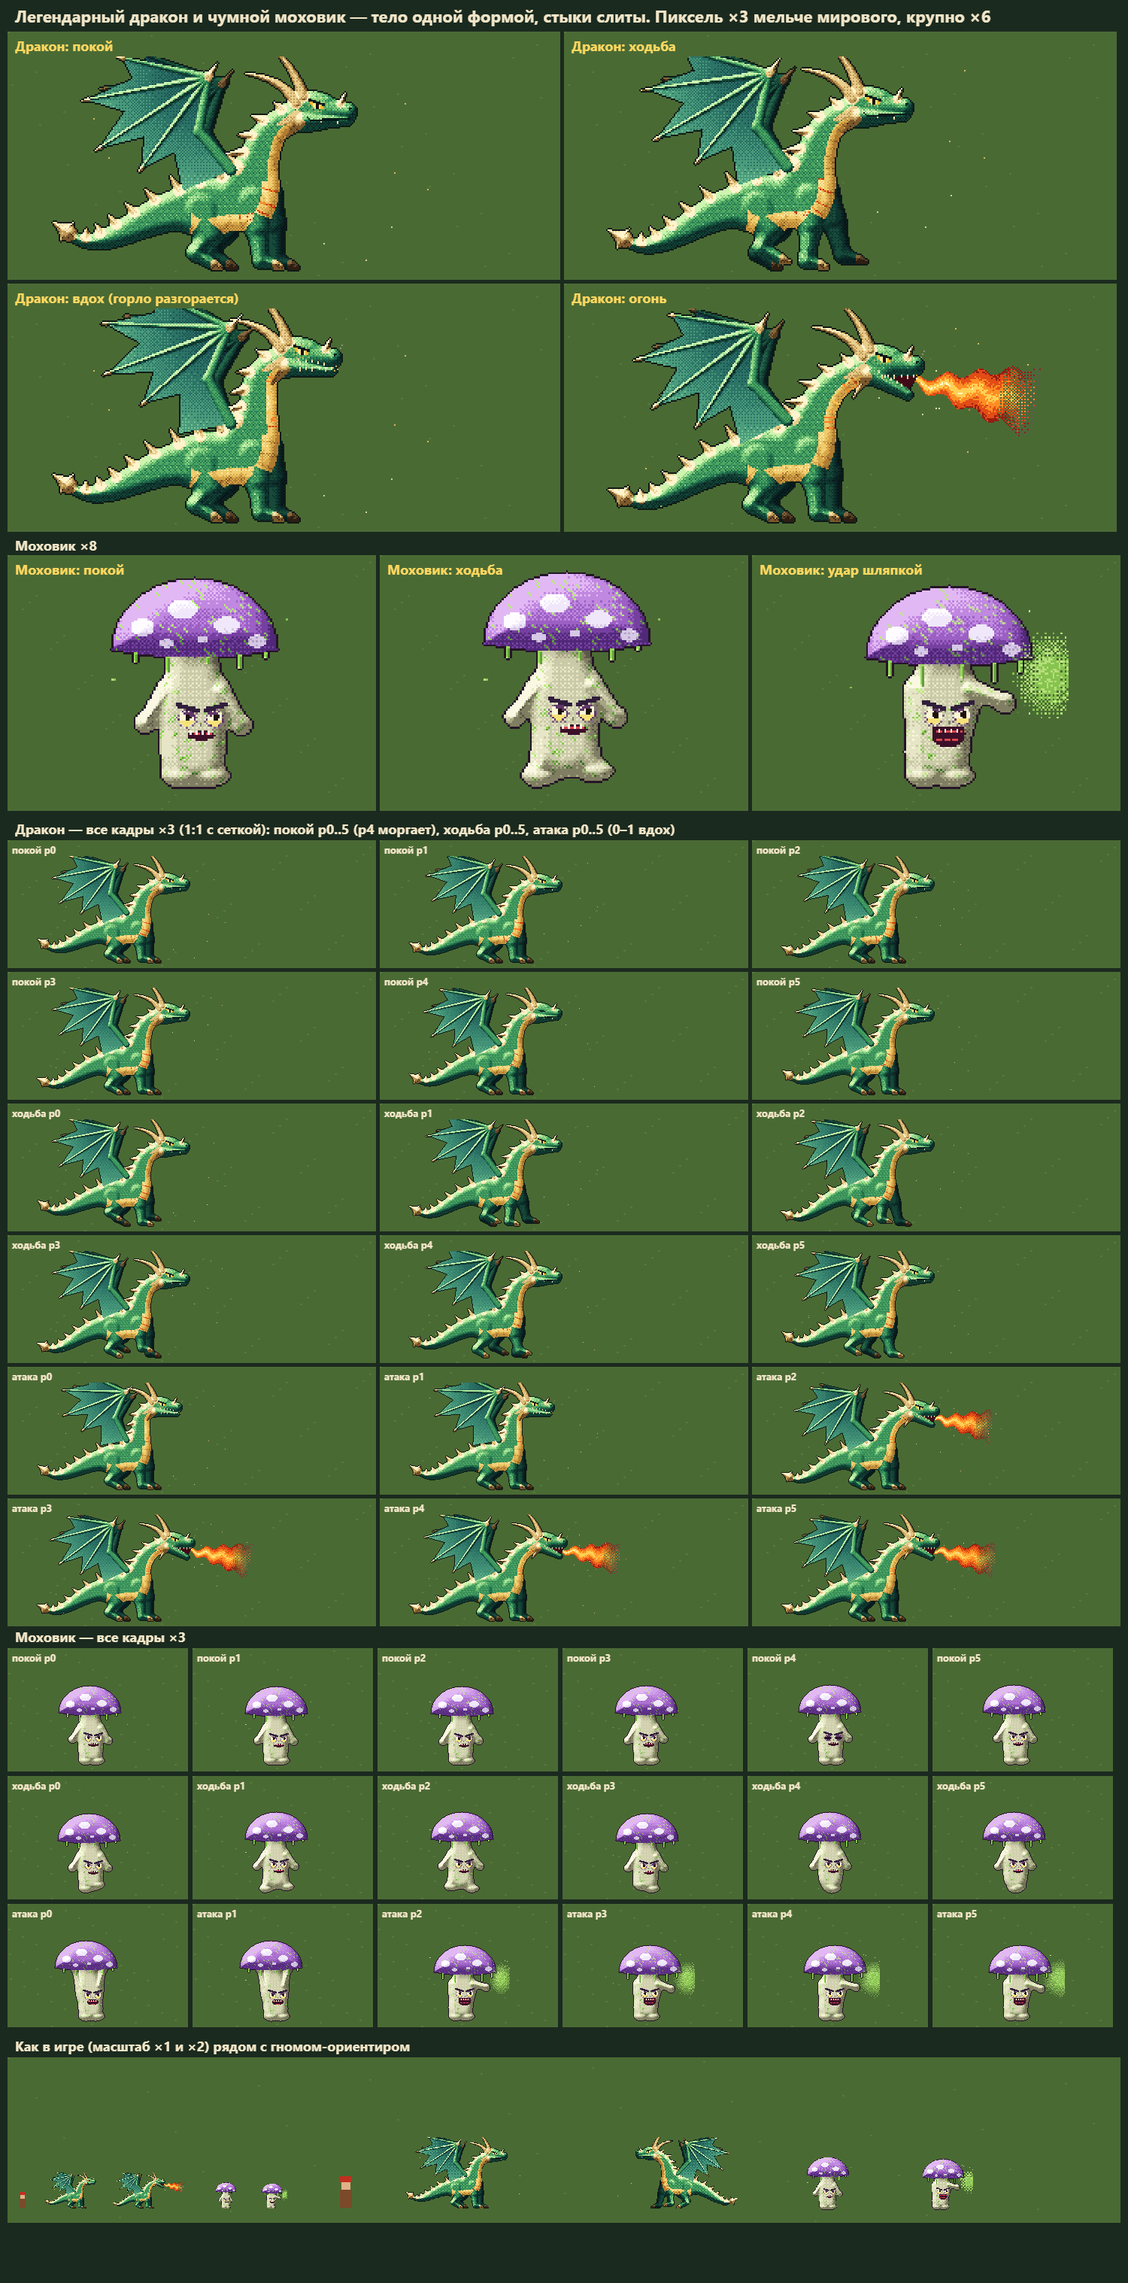
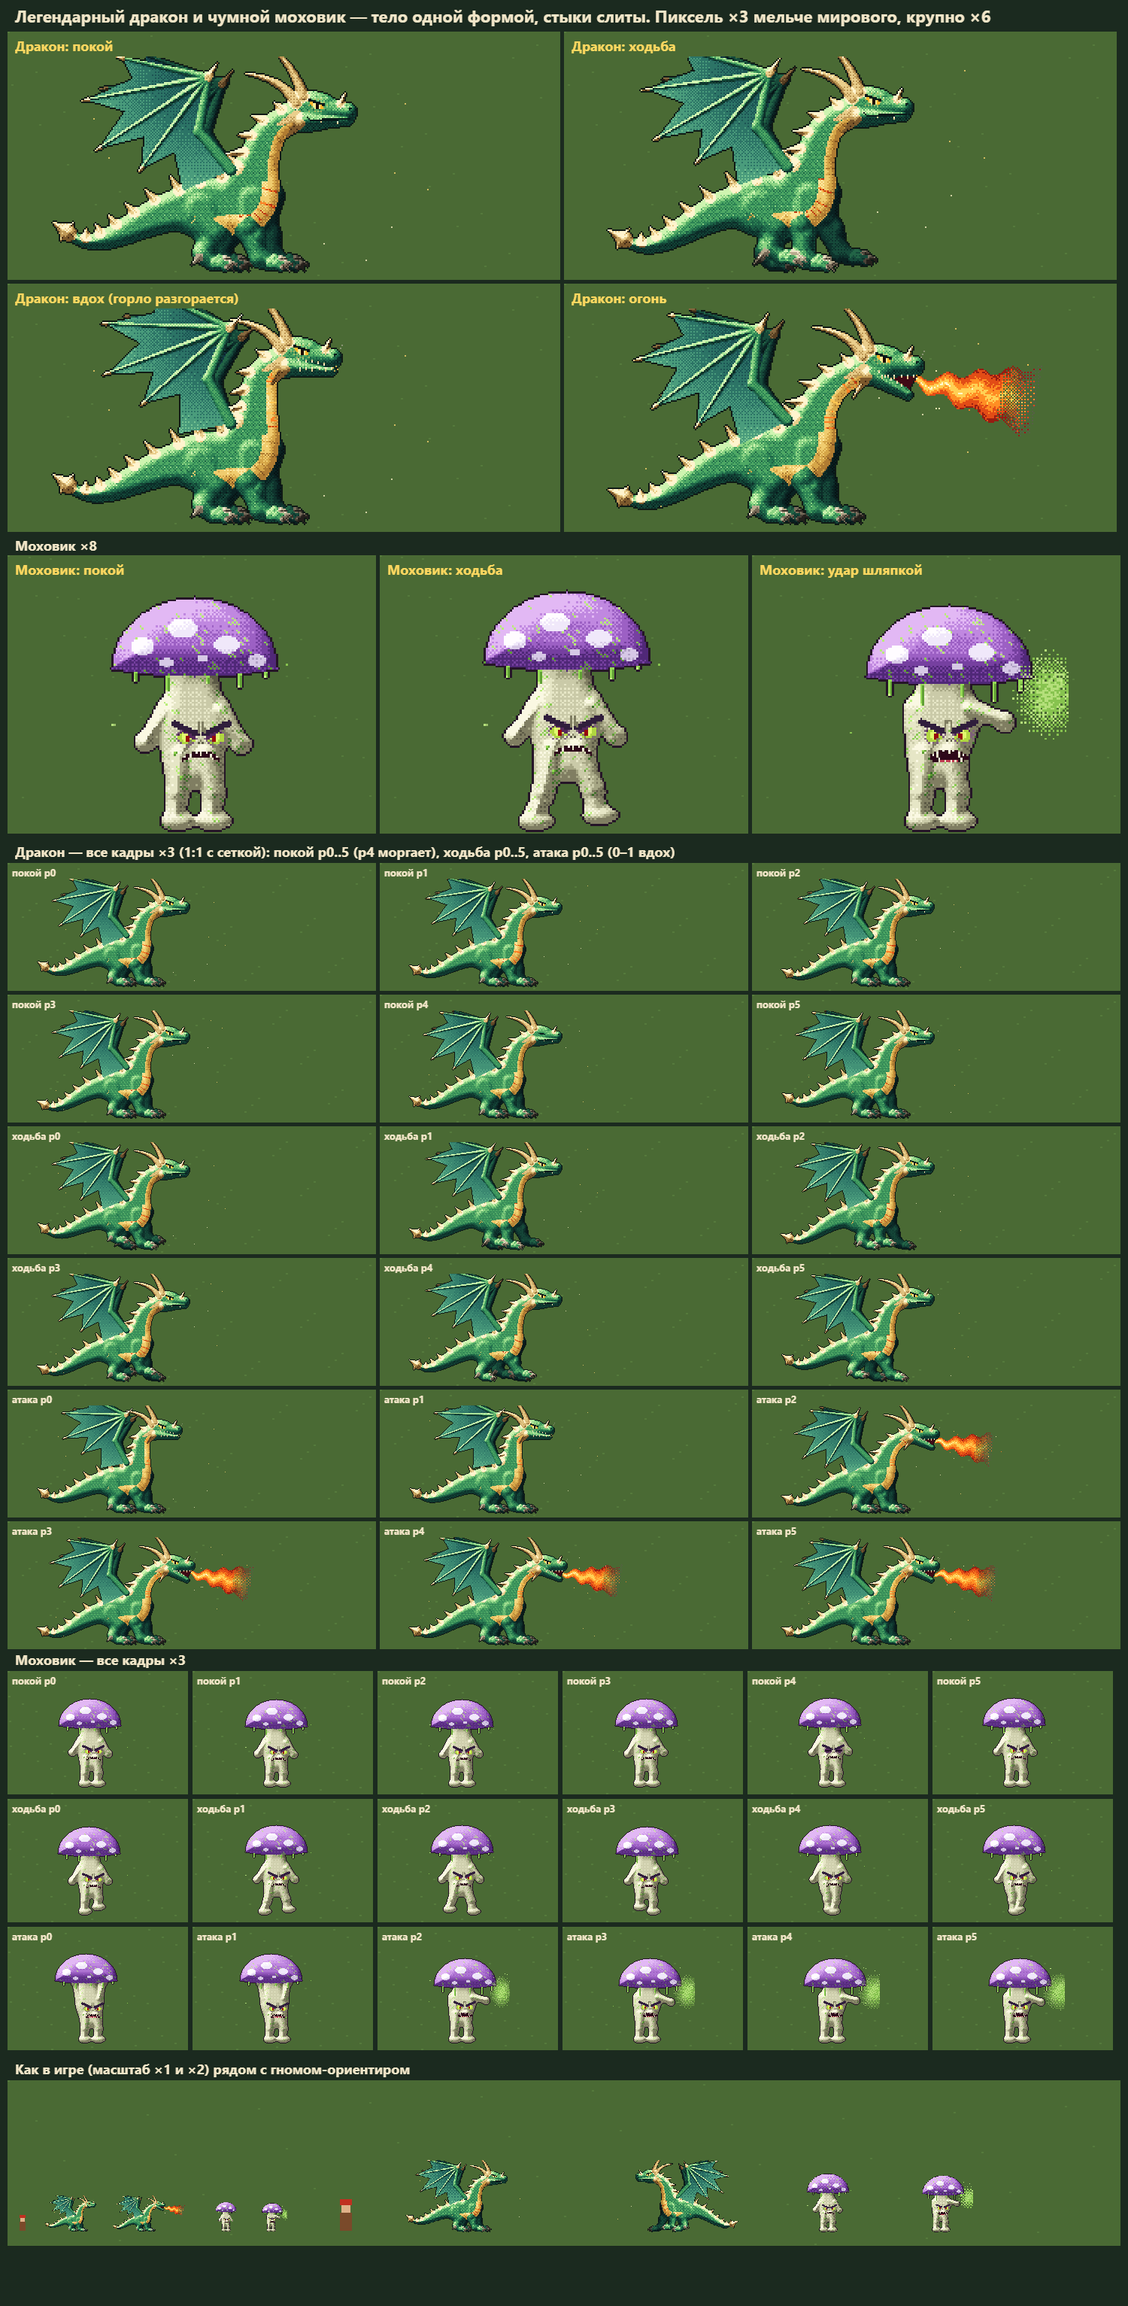
Дракон: настоящие драконьи лапы (бедро, пальцы веером, когти, шпора); моховик: злое лицо, ноги длиннее

diff --git a/tools/pxdragshroom/dragshroom.js b/tools/pxdragshroom/dragshroom.js
@@ -92,6 +92,7 @@ function fzDragonPx(mode, p) {
   const BE = [[128, 84, 34], [176, 124, 50], [214, 166, 72], [240, 204, 110], [255, 234, 164]];
   const HO = [[64, 42, 22], [124, 88, 44], [190, 152, 86], [234, 206, 140], [255, 244, 206]];
   const HOF = [[44, 30, 18], [86, 62, 34], [134, 104, 62]];
+  const CL = [[56, 48, 40], [116, 104, 86], [184, 170, 142], [238, 228, 202]], CLF = [[36, 32, 28], [74, 66, 56], [120, 110, 92]];
   const MEM = [[12, 34, 46], [18, 56, 66], [28, 84, 84], [44, 116, 102], [74, 156, 124], [120, 196, 146]];
   const EMB = [[190, 56, 18], [255, 128, 36], [255, 198, 84], [255, 246, 190]];
   const FL = [[150, 28, 18], [226, 76, 22], [255, 142, 36], [255, 208, 84], [255, 250, 206]];
@@ -142,21 +143,31 @@ function fzDragonPx(mode, p) {
   wing([-2, -64 + hb], wa + 0.14, false);
 
   // ---- лапы: бедро, голень, ступня и когти — одной формой ----
+  // ---- лапы дракона: мощное бедро, голень в чешуйчатых щитках, ступня с тремя пальцами веером, загнутые когти, шпора ----
   const leg = (hx0, hy0, ph, hind) => {
     const sv = walk ? Math.sin(t + ph) * 9 : 0, lift = walk ? Math.max(0, Math.cos(t + ph)) * 7 : 0, out = [];
-    let toe;
+    let ank, ball;
     if (hind) {
-      const kn = [hx0 + 6 + sv * 0.3, hy0 + 16 - lift * 0.4], hk = [hx0 - 4 + sv * 0.8, -11 - lift]; toe = [hx0 + 8 + sv, -3 - lift];
-      out.push({ f: DS_cap(hx0, hy0, kn[0], kn[1], 13, 8), front: true, fw: 6 }, { f: DS_cap(kn[0], kn[1], hk[0], hk[1], 7.5, 4.6), k: 5 }, { f: DS_cap(hk[0], hk[1], toe[0], toe[1], 4.6, 3.6), k: 4 });
+      const kn = [hx0 + 9 + sv * 0.35, hy0 + 14 - lift * 0.5];
+      ank = [hx0 + 2 + sv * 0.8, -11 - lift * 0.9]; ball = [hx0 + 8 + sv, -4.5 - lift];
+      out.push({ f: DS_cap(hx0, hy0, kn[0], kn[1], 14, 10), front: true, fw: 7, W: 9 }, { f: DS_ell(hx0 + 2, hy0 + 7, 13, 11), k: 6 },
+        { f: DS_cap(kn[0], kn[1], ank[0], ank[1], 9.5, 6.6), k: 6, scute: 1 }, { f: DS_cap(ank[0], ank[1], ball[0], ball[1], 6.6, 5.4), k: 4, scute: 1 },
+        { f: DS_cap(ank[0] - 3, ank[1] + 3, ank[0] - 8, ank[1] + 8, 2.4, 0.3), mat: 'claw', k: 1.5 });               // шпора
     } else {
-      const el = [hx0 + 4 + sv * 0.3, hy0 + 18 - lift * 0.4], wr = [hx0 + 6 + sv * 0.9, -6 - lift]; toe = [hx0 + 15 + sv, -3 - lift];
-      out.push({ f: DS_cap(hx0, hy0, el[0], el[1], 11, 7.4), front: true, fw: 5 }, { f: DS_cap(el[0], el[1], wr[0], wr[1], 7.4, 5), k: 5 }, { f: DS_cap(wr[0], wr[1], toe[0], toe[1], 4.6, 3.2), k: 4 });
+      const el = [hx0 - 3 + sv * 0.3, hy0 + 17 - lift * 0.4];
+      ank = [hx0 + 5 + sv * 0.85, -8 - lift * 0.9]; ball = [hx0 + 11 + sv, -4.5 - lift];
+      out.push({ f: DS_cap(hx0, hy0, el[0], el[1], 11.5, 8.4), front: true, fw: 6, W: 8 }, { f: DS_cap(el[0], el[1], ank[0], ank[1], 8.4, 5.8), k: 5, scute: 1 },
+        { f: DS_ell((el[0] + ank[0]) / 2 + 2.5, (el[1] + ank[1]) / 2 - 3, 5.5, 7.5), k: 4 }, { f: DS_cap(ank[0], ank[1], ball[0], ball[1], 5.8, 5), k: 4 });
     }
-    for (let k = 0; k < 3; k++) out.push({ f: DS_cap(toe[0] + 1, toe[1] + (k - 1) * 1.4, toe[0] + 6 + k * 0.4, toe[1] + 1.6 + (k - 1) * 1.1, 1.7, 0.3), mat: 'horn', k: 1 });
+    // три пальца веером: дальний выше и короче, ближний ниже; у каждого свой объём (front), когти светлые, крючком
+    for (const [k, dx, dy, r] of [[-1, 7, -2.5, 2.8], [0, 11, 1, 3.3], [1, 8.5, 3.6, 3.4]]) {
+      const b0 = [ball[0] + 1, ball[1] + k * 1.4], tip = [ball[0] + dx, ball[1] + dy], mid = [(b0[0] + tip[0]) / 2, (b0[1] + tip[1]) / 2 - 1.1];
+      out.push({ f: DS_cap(b0[0], b0[1], mid[0], mid[1], r, r * 0.86), k: 1, front: true, fw: 1.6, W: 2.5 }, { f: DS_cap(mid[0], mid[1], tip[0], tip[1], r * 0.86, r * 0.7), k: 1, front: true, fw: 1.6, W: 2.5 });
+      out.push({ f: DS_cap(tip[0] + r * 0.4, tip[1] - 0.8, tip[0] + 4.2, tip[1] - 0.2, 1.5, 0.9), mat: 'claw', k: 0.6 }, { f: DS_cap(tip[0] + 4.2, tip[1] - 0.2, tip[0] + 5.6, tip[1] + 2.2, 0.9, 0.2), mat: 'claw', k: 0.4 });
+    }
     return out;
   };
-  const sv0 = walk ? 0 : 0;
-  DS_body(K, [...leg(-12, -42 + hb, Math.PI, true), ...leg(22, -48 + hb, 0, false)], { skin: SKF, horn: HOF }, { bb: BB, W: 6, k: 4 });
+  DS_body(K, [...leg(-12, -42 + hb, Math.PI, true), ...leg(22, -48 + hb, 0, false)], { skin: SKF, horn: HOF, claw: CLF }, { bb: BB, W: 6, k: 4 });
 
   // ---- пасть изнутри (до тела: тело накроет челюсти, видна только щель) ----
   if (ja > 0) R(J[0], hy - 2, Math.max(upTip[0], jawTip[0]) + 1, jawTip[1] + 2, (x, y) => {
@@ -167,7 +178,7 @@ function fzDragonPx(mode, p) {
   // ---- тело одной формой ----
   const parts = [];
   parts.push({ f: DS_tube(tail), k: 6 });
-  parts.push({ f: DS_ell(-20, -42 + hb, 19, 17), k: 8, bel: 1 }, { f: DS_cap(-20, -40 + hb, 8, -44 + hb, 16, 18), k: 8, bel: 1 }, { f: DS_ell(10, -52 + hb, 19, 20 + br * 0.6), k: 8, bel: 1 });
+  parts.push({ f: DS_ell(-20, -42 + hb, 19, 17), k: 8 }, { f: DS_cap(-20, -40 + hb, 8, -44 + hb, 16, 18), k: 8, bel: 1 }, { f: DS_ell(10, -52 + hb, 19, 20 + br * 0.6), k: 8, bel: 1 });
   parts.push({ f: DS_tube(neck), k: 9, bel: 2 });
   // гребень шипов: хвост → спина → шея
   const dors = [...tail.slice().reverse(), ...torso, ...neck.slice(0, -1)];
@@ -196,7 +207,7 @@ function fzDragonPx(mode, p) {
     parts.push({ f: DS_tube(DS_bez([b0, c0, e0], 8, r0, 0.7)), mat: 'horn', k: 1.5, front: true, fw: 2, W: 3 });
 
   const lg = [0, 1];
-  const body = DS_body(K, parts, { skin: SK, belly: BE, horn: HO }, {
+  const body = DS_body(K, parts, { skin: SK, belly: BE, horn: HO, claw: CL }, {
     bb: BB, W: 8, k: 5,
     mat2: (x, y, n, mat, ow, gx, gy, dep) => (lg[0] = gx, lg[1] = gy, 0) || mat === 'skin' && ow.bel && gy * 0.8 + gx * 0.5 > 0.32 + (dth(x, y) - 0.5) * 0.12 && dep < (ow.bel === 2 ? 7 : 11) ? 'belly' : null,
     light: (x, y, mat) => mat === 'belly' ? 0.12 + glowAt(x, y) * 0.18 : 0,
@@ -271,9 +282,9 @@ function fzDragonSprite(mode, p) { return fzPxSprite('dr' + mode + p, 100, 50, 4
 // ================= Чумной моховик =================
 // Живой гриб с лицом на ножке: сиреневая шляпка в белых пятнах, пластинки снизу, зелёная плесень и споры.
 // Ножка, ступни и ручки — одна форма (слиты), без воротничка. Шляпка — отдельная форма над ножкой.
-// mode: 'idle' (p 0..5, на p4 моргает), 'walk' (p 0..5), 'atk' (p 0..1 замах: шляпка назад, ручки вверх; p 2..5 удар шляпкой и облако спор). Сетка 132×126 (мир 44×42).
+// mode: 'idle' (p 0..5, на p4 моргает), 'walk' (p 0..5), 'atk' (p 0..1 замах: шляпка назад, ручки вверх; p 2..5 удар шляпкой и облако спор). Сетка 132×132 (мир 44×44).
 function fzShroomPx(mode, p) {
-  const K = fzPxKit(132, 126, 66, 114), { P, R, L, dth, hsh } = K, BB = [-66, -114, 65, 11];
+  const K = fzPxKit(132, 132, 66, 120), { P, R, L, dth, hsh } = K, BB = [-66, -120, 65, 11];
   const t = p / 6 * Math.PI * 2;
   const CP = [[46, 20, 80], [80, 40, 120], [118, 64, 160], [156, 96, 196], [192, 136, 224], [226, 184, 244]];
   const ST = [[92, 90, 70], [128, 126, 98], [166, 166, 132], [202, 202, 168], [230, 230, 198], [250, 248, 226]];
@@ -283,7 +294,7 @@ function fzShroomPx(mode, p) {
   const PL = [[96, 160, 52], [150, 218, 86], [206, 252, 140]];
   const OUT = [34, 14, 38];
   const walk = mode === 'walk', atk = mode === 'atk', wind = atk && p < 2, smash = atk && p >= 2;
-  const bob = walk ? -Math.round(Math.abs(Math.sin(t)) * 2) : mode === 'idle' ? Math.round(Math.sin(t)) : wind ? 2 : 0;
+  const bob = (walk ? -Math.round(Math.abs(Math.sin(t)) * 2) : mode === 'idle' ? Math.round(Math.sin(t)) : wind ? 2 : 0) - 13;   // −13: тело выше, ноги длиннее
   const tilt = walk ? Math.round(Math.sin(t - 0.8) * 2.4) : mode === 'idle' ? Math.round(Math.sin(t - 0.6) * 1.8) : wind ? -6 : 6;
   const cx = tilt, cy = -70 + bob + (smash ? 5 : wind ? -3 : 0), crx = 41, cry = 28;
   const lean = smash ? 4 : wind ? -3 : tilt * 0.4;                                     // ножка клонится вслед за шляпкой
@@ -302,12 +313,13 @@ function fzShroomPx(mode, p) {
   // ---- ножка, ступни и ручки одной формой ----
   const sx = y => lean * Math.min(1, Math.max(0, (-y - 12) / 52));
   const parts = [
-    { f: DS_cap(0, -16 + bob, sx(-38), -38 + bob, 15.5, 17), k: 4 },
+    { f: DS_cap(0, -22 + bob, sx(-38), -38 + bob, 14, 17), k: 4 },
     { f: DS_cap(sx(-38), -38 + bob, sx(-64), -64 + bob, 17, 12), k: 6 },
   ];
-  for (const [x, ph] of [[-8, Math.PI], [8, 0]]) {
-    const sv = walk ? Math.sin(t + ph) * 7 : 0, lift = walk ? Math.max(0, Math.cos(t + ph)) * 5 : 0, fy = -4 - lift, fx = x + sv;
-    parts.push({ f: DS_cap(x * 0.6, -20 + bob, fx, fy, 7, 5.5), k: 7 }, { f: DS_ell(fx + 2, fy + 1, 8.4, 4.2), k: 4, front: true, fw: 3, W: 4 });
+  for (const [x, ph] of [[-9, Math.PI], [9, 0]]) {
+    const sv = walk ? Math.sin(t + ph) * 8 : 0, lift = walk ? Math.max(0, Math.cos(t + ph)) * 6 : 0, fy = -4 - lift, fx = x + sv;
+    const kn = [x + sv * 0.5 + 1.5, -17 - lift * 0.6];                                // колено чуть вперёд
+    parts.push({ f: DS_cap(x * 0.7, -24 + bob, kn[0], kn[1], 6.6, 5.4), k: 6, front: true, fw: 3 }, { f: DS_cap(kn[0], kn[1], fx, fy, 5.4, 4.8), k: 2.5 }, { f: DS_ell(fx + 2, fy + 1, 8.4, 4.2), k: 4, front: true, fw: 3, W: 4 });
   }
   const hands = [];
   for (const side of [-1, 1]) {
@@ -330,31 +342,38 @@ function fzShroomPx(mode, p) {
   });
   for (const [hx, hy] of hands) for (let k = -1; k <= 1; k++) P(hx + k * 2, hy + 5, ST[1]);               // пальчики
 
-  // ---- лицо ----
-  const fx = sx(-32) + 3, fy = -33 + bob, jw = smash ? 5 : wind ? 2 : mode === 'idle' && p === 3 ? 1 : 0;
+  // ---- лицо: злое — брови резко сведены, глаза-щёлки с ядовитым огнём, складки на переносице, оскал с кривыми зубами ----
+  const fx = sx(-32) + 3, fy = -33 + bob, jw = smash ? 5 : wind ? 3 : 1;
   const blink = mode === 'idle' && p === 4;
   for (const [ex, sd] of [[fx - 6, -1], [fx + 8, 1]]) {
-    R(ex - 6, fy - 6, ex + 6, fy + 6, (x, y) => {                                                        // впалые круги — мягко в цвет ножки
-      const d = Math.hypot((x - ex) / 5.6, (y - fy - 0.5) / 5.8);
-      return d <= 1 && dth(x, y) < (1 - d) * 2.2 ? (d < 0.75 ? [96, 54, 104] : [132, 104, 128]) : null;
+    R(ex - 7, fy - 7, ex + 7, fy + 6, (x, y) => {                                                        // впалые тёмные глазницы
+      const d = Math.hypot((x - ex) / 6.2, (y - fy) / 5.4);
+      return d <= 1 && dth(x, y) < (1 - d) * 2.4 ? (d < 0.7 ? [84, 40, 92] : [126, 96, 122]) : null;
     });
-    if (blink) L(ex - 4, fy + 1, ex + 4, fy + 1, 1, 1, () => OUT);
-    else R(ex - 4, fy - 5, ex + 4, fy + 5, (x, y) => {
-      if (((x - ex) / 3.8) ** 2 + ((y - fy) / 4.2) ** 2 > 1) return null;
-      if (y < fy - 1.5 + (sd < 0 ? 1 : -1) * (x - ex) * 0.4 - (smash ? 1 : 0)) return null;             // злой скос
-      if (((x - ex - 0.6) / 1.5) ** 2 + ((y - fy + 0.5) / 2.2) ** 2 <= 1) return [30, 16, 8];
-      return y > fy + 1.5 ? [246, 226, 120] : [250, 246, 214];
+    if (blink) L(ex - 4, fy + 1, ex + 4, fy, 1, 1, () => OUT);
+    else R(ex - 5, fy - 4, ex + 5, fy + 4, (x, y) => {
+      if (((x - ex) / 4.4) ** 2 + ((y - fy - 0.5) / 3.2) ** 2 > 1) return null;
+      if (y < fy - 1 - sd * (x - ex) * 0.75 - (smash ? 1 : 0)) return null;                         // веко срезано бровью к переносице
+      if (Math.abs(x - ex + sd * 0.8) < 1 && Math.abs(y - fy - 0.6) < 1.6) return [150, 10, 14];   // зрачок-уголёк
+      return Math.hypot(x - ex, y - fy) < 2.4 ? [226, 250, 110] : [176, 214, 64];
     });
-    L(ex - 5, fy - 5 + (sd < 0 ? -1 : 1) * 1.5, ex + 5, fy - 5 + (sd < 0 ? 1 : -1) * 1.5, 1.2, 1.2, () => GL[0]);
+    L(ex + sd * 6.5, fy - 6.5, ex - sd * 5, fy - 1.5, 1.6, 1.3, () => GL[0]);                            // бровь: снаружи высоко, к носу низко
+    P(ex + sd * 7, fy - 7, GL[0]);
   }
-  P(fx + 1, fy + 3, ST[1]); P(fx + 1, fy + 4, ST[1]);
-  R(fx - 7, fy + 6, fx + 9, fy + 14 + jw, (x, y) => {
-    const d = ((x - (fx + 1)) / (7 + jw * 0.3)) ** 2 + ((y - (fy + 9)) / (2.2 + jw * 0.9)) ** 2;
-    if (d > 1) return null;
-    if (d > 0.7) return [60, 16, 40];
-    return (y - fy) % 4 === 0 && dth(x, y) > 0.3 ? [220, 70, 80] : [60, 16, 40];
+  for (const dx of [0, 2]) L(fx + dx, fy - 7, fx + dx + (dx ? 0.5 : -0.5), fy - 2, 0.6, 0.6, () => ST[1]);   // складки на переносице
+  P(fx + 1, fy + 2, ST[1]); P(fx, fy + 3, ST[0]); P(fx + 2, fy + 3, ST[0]);                               // ноздри
+  L(fx - 4, fy + 2, fx - 8, fy + 8, 0.6, 0.6, () => ST[1]); L(fx + 6, fy + 2, fx + 10, fy + 8, 0.6, 0.6, () => ST[1]);   // носогубные складки
+  const mx = fx + 1, top = x => fy + 7 + ((x - mx) / 8) ** 2 * 2.5, bot = x => top(x) + 2 + jw * Math.max(0, 1 - ((x - mx) / 9.5) ** 2);
+  R(mx - 10, fy + 5, mx + 10, fy + 16 + jw, (x, y) => {                                                     // оскал: уголки вниз
+    if (Math.abs(x - mx) > 9.5 || y < top(x) || y > bot(x)) return null;
+    if (y > bot(x) - 1.5 && Math.abs(x - mx) < 5 && jw > 2) return [190, 60, 80];
+    return [46, 8, 26];
   });
-  for (let k = 0; k < 4; k++) { const x = fx - 4 + k * 3; P(x, fy + 7, ST[5]); P(x, fy + 8, ST[5]); if (jw > 1) P(x + 1, fy + 11 + jw, ST[5]); }
+  for (let k = -3; k <= 3; k++) {
+    const x = mx + k * 2.6, tl = (k === -2 || k === 2) ? 3 : (k & 1) ? 1 : 2;                             // верхние: клыки длиннее, кривые
+    for (let q = 0; q < tl; q++) P(x + (q === 2 ? (k < 0 ? -0.6 : 0.6) : 0), top(x) + 0.5 + q, q ? ST[4] : ST[5]);
+    if (jw > 1 && Math.abs(k) < 3) { const yb = bot(x); P(x + 1, yb - 0.5, ST[4]); if (k % 2 === 0) P(x + 1, yb - 1.5, ST[5]); }
+  }
   for (const [dx, dy] of [[-12, 8], [12, 12], [-9, 20]]) if (stalk.at(fx + dx, fy + dy) < -1) { P(fx + dx, fy + dy, PL[1]); P(fx + dx + 1, fy + dy, PL[0]); P(fx + dx, fy + dy + 1, PL[0]); }
 
   // ---- шляпка: пластинки снизу узкой дугой, купол одной формой, пятна красятся по его свету ----
@@ -385,4 +404,4 @@ function fzShroomPx(mode, p) {
   return K.done();
 }
 const DS_inE2 = (x, y, cx, cy, rx, ry) => ((x - cx) / rx) ** 2 + ((y - cy) / ry) ** 2 <= 1;
-function fzShroomSprite(mode, p) { return fzPxSprite('sh' + mode + p, 44, 42, 22, 38, () => fzShroomPx(mode, p)); }
+function fzShroomSprite(mode, p) { return fzPxSprite('sh' + mode + p, 44, 44, 22, 40, () => fzShroomPx(mode, p)); }

diff --git a/tools/pxdragshroom/sheet.html b/tools/pxdragshroom/sheet.html
@@ -7,7 +7,7 @@
 try {
 const W = 1500, cv = document.getElementById('cv');
 const FR = [['idle', 'покой'], ['walk', 'ходьба'], ['atk', 'атака']];
-const H = 40 + 2 * 335 + 20 + 345 + 20 + 40 + 6 * 175 + 40 + 3 * 170 + 40 + 260;
+const H = 40 + 2 * 335 + 20 + 375 + 20 + 40 + 6 * 175 + 40 + 3 * 170 + 40 + 260;
 cv.width = W; cv.height = H;
 const c = cv.getContext('2d'); c.imageSmoothingEnabled = false;
 c.fillStyle = '#1b2a1f'; c.fillRect(0, 0, W, H);
@@ -25,9 +25,9 @@ T('Легендарный дракон и чумной моховик — тел
 y += 2 * 335 + 20;
 T('Моховик ×8', 20, y, 18); y += 6;
 [['idle', 1, 'Моховик: покой'], ['walk', 1, 'Моховик: ходьба'], ['atk', 3, 'Моховик: удар шляпкой']].forEach(([m, p, n], i) => {
-  const x = 10 + i * 495, yy = y; cell(x, yy, 490, 340); T(n, x + 10, yy + 26, 18, '#ffd860'); put(fzShroomSprite(m, p), x + 245, yy + 300, 8);
+  const x = 10 + i * 495, yy = y; cell(x, yy, 490, 370); T(n, x + 10, yy + 26, 18, '#ffd860'); put(fzShroomSprite(m, p), x + 245, yy + 360, 8);
 });
-y += 345 + 20;
+y += 375 + 20;
 T('Дракон — все кадры ×3 (1:1 с сеткой): покой p0..5 (p4 моргает), ходьба p0..5, атака p0..5 (0–1 вдох)', 20, y + 6, 18); y += 14;
 FR.forEach(([m, mn], r) => { for (let p = 0; p < 6; p++) { const i = r * 6 + p, x = 10 + (i % 3) * 495, yy = y + Math.floor(i / 3) * 175; cell(x, yy, 490, 170); T(mn + ' p' + p, x + 6, yy + 18, 13); put(fzDragonSprite(m, p), x + 160, yy + 162, 3); } });
 y += 6 * 175 + 10;
